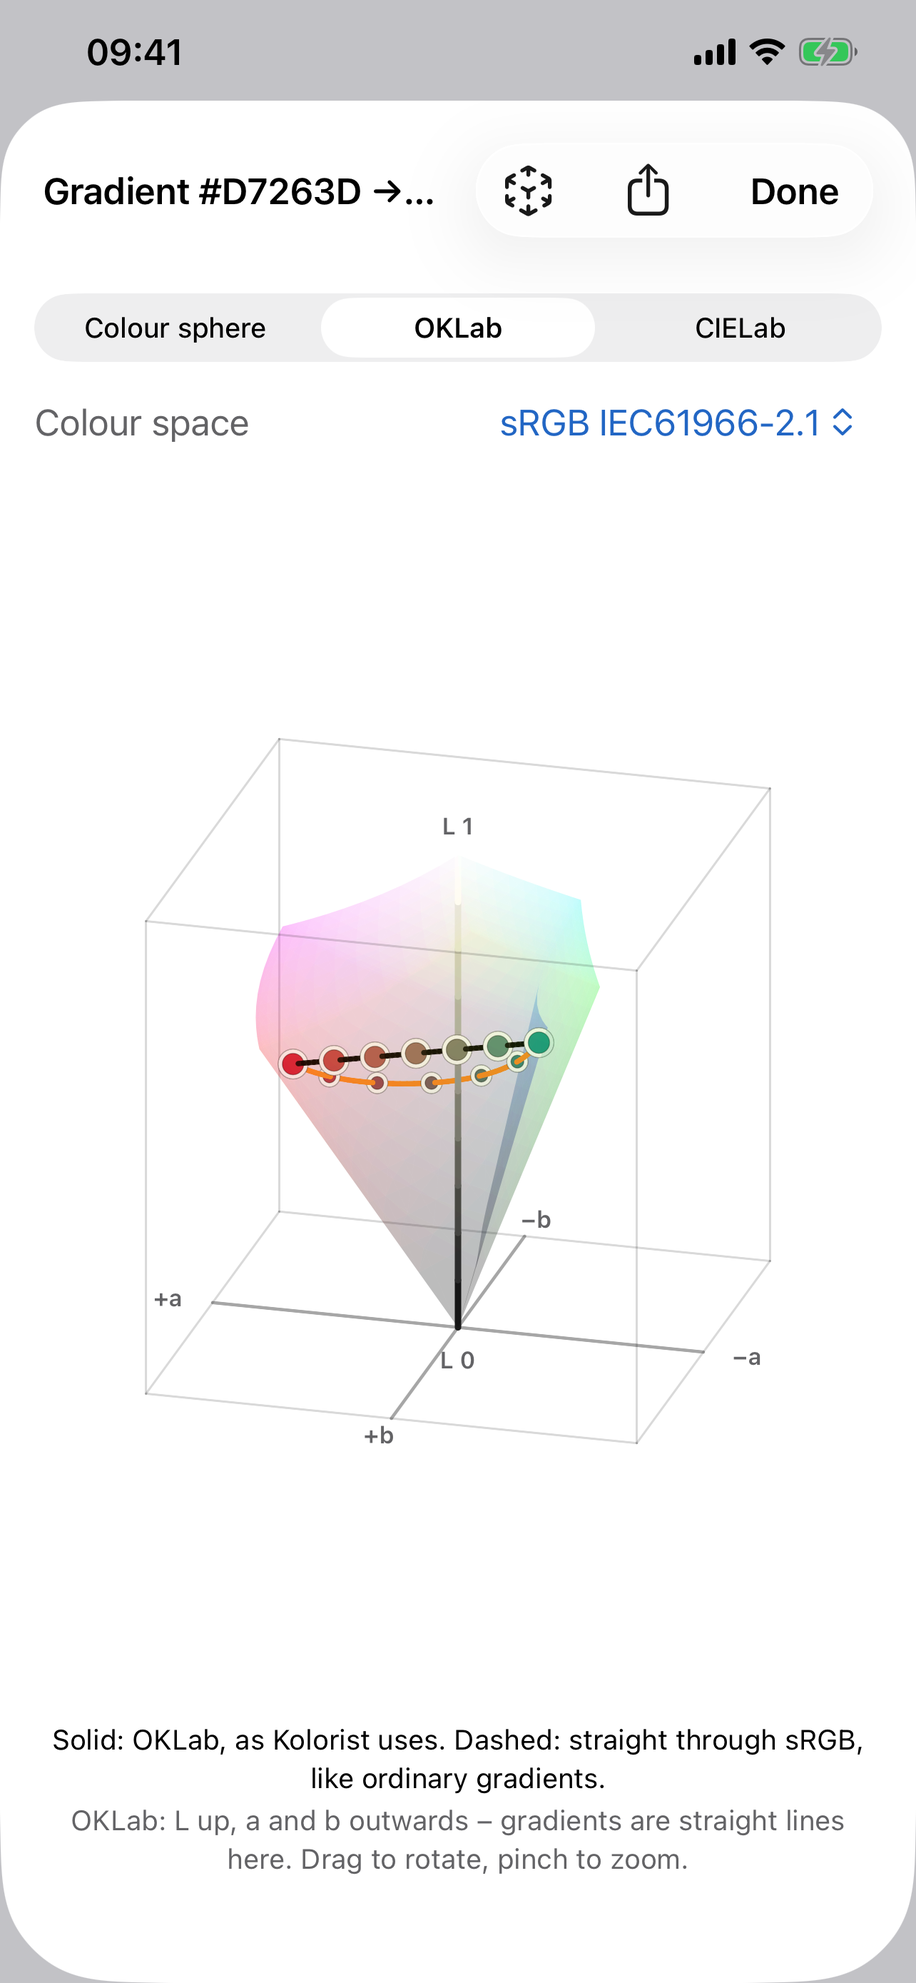
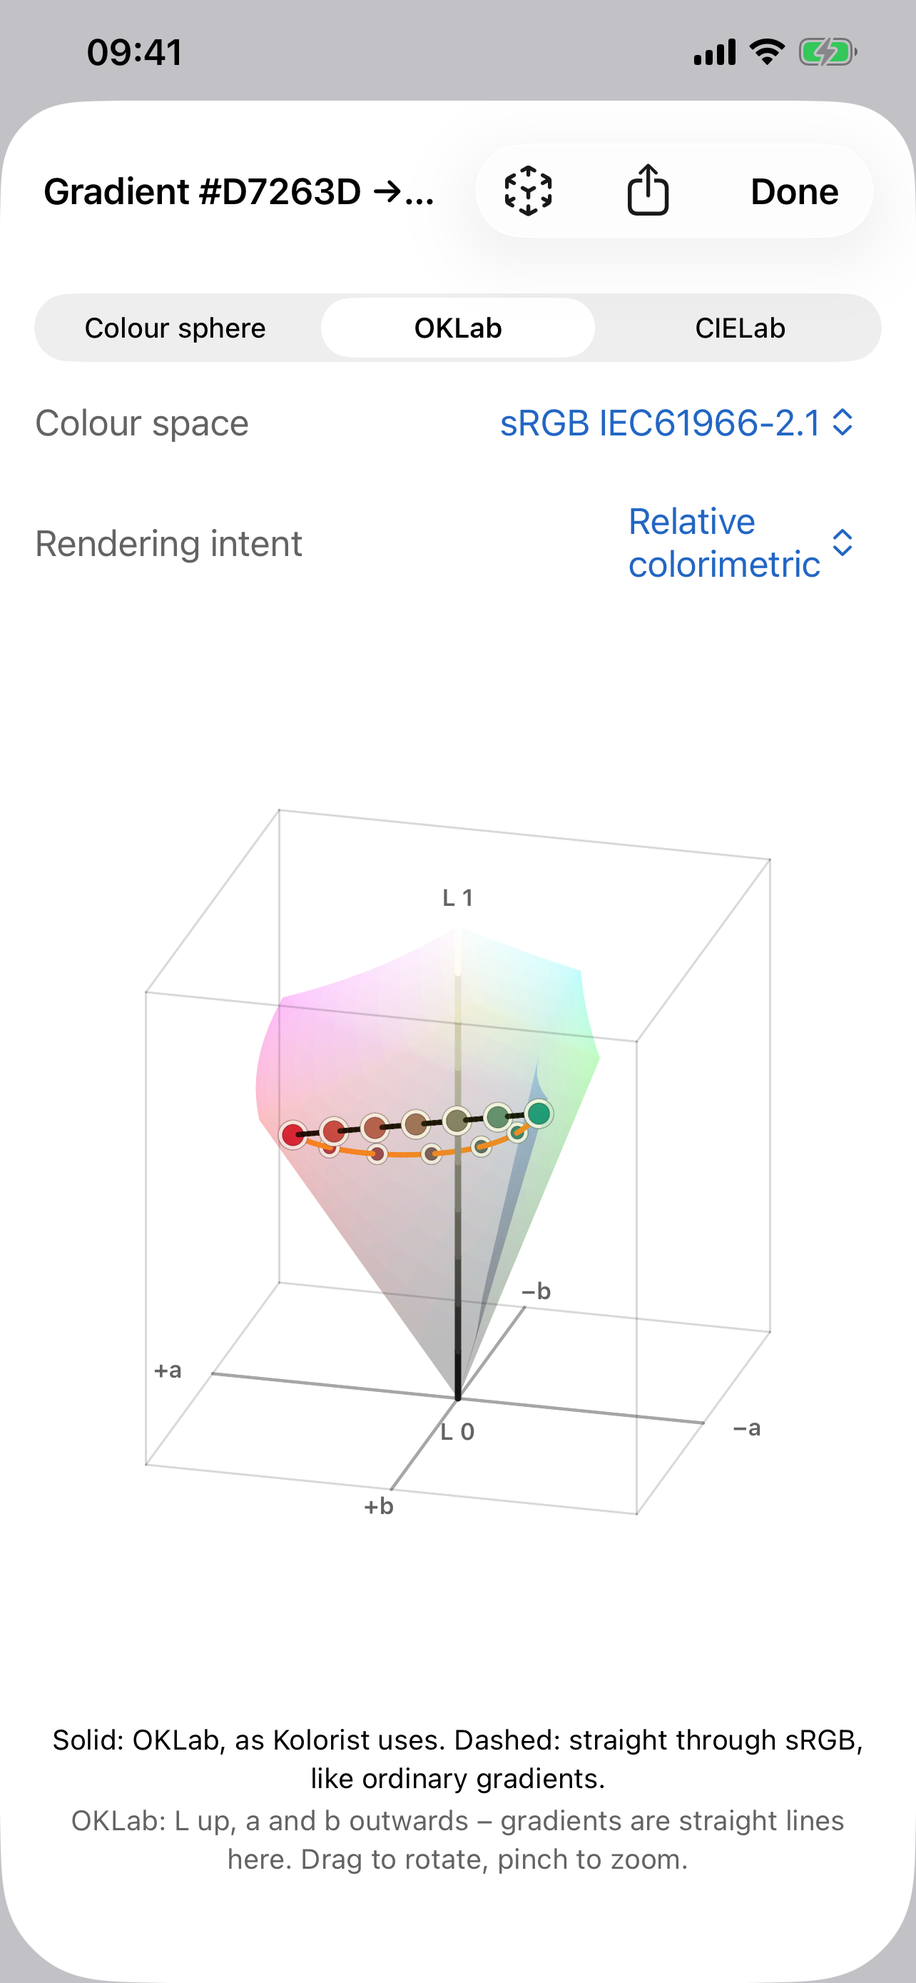
Web 1.4: gamutgrenser i gliderne og flaten (skjermbilder), gjengivelseshensikt og «Vis som» i 3D-delen, nye 3D-skjermbilder (?v=11), forvirringslinjer på metodesiden

diff --git a/web/1.4/en/features.html b/web/1.4/en/features.html
@@ -70,6 +70,20 @@
 
     <section class="funksjonsgruppe" id="colour-spaces" aria-labelledby="colour-spaces-tittel">
       <h2 id="colour-spaces-tittel">Colours and colour spaces</h2>
+      <ul class="skjermbilder" tabindex="0" aria-label="Screenshots – scroll sideways">
+        <li>
+          <figure class="skjermbilde">
+            <img src="../assets/en/skjermbilde-gamutgrense.png?v=11" alt="Studio with Generic CMYK under “Show as”: the lightness, chroma and hue sliders are striped where the colour falls outside CMYK" width="1284" height="2778" loading="lazy">
+            <figcaption>The limits on the sliders</figcaption>
+          </figure>
+        </li>
+        <li>
+          <figure class="skjermbilde">
+            <img src="../assets/en/skjermbilde-gamutgrense-flate.png?v=11" alt="Monochromatic harmony with the limit of Generic CMYK drawn in the lightness and saturation field" width="1284" height="2778" loading="lazy">
+            <figcaption>The limit in the field</figcaption>
+          </figure>
+        </li>
+      </ul>
       <div class="underpunkter">
         <div>
           <h3>Every colour space</h3>
@@ -79,6 +93,7 @@
             <li>Choose the source colour space for CMYK and RGB – Generic CMYK and sRGB by default, or any ICC profile</li>
             <li>Save colours in their colour model or profile – exports use the same format</li>
             <li>Warnings when a colour is out of gamut</li>
+            <li>See the limits of the colour space right on the sliders and in the lightness and saturation field <span class="nytt">New in 1.4</span></li>
             <li>Optionally limit colours to a chosen profile</li>
             <li>See colour spaces, harmonies, gradients and palettes in 3D – in CIELab, OKLab or a colour sphere – and as a 3D model in AR <span class="nytt">New in 1.4</span></li>
             <li>Clean CMYK values: grey components move to black (UCR/GCR), with as few inks as possible</li>
@@ -116,25 +131,25 @@
       <ul class="skjermbilder" tabindex="0" aria-label="Screenshots – scroll sideways">
               <li>
                 <figure class="skjermbilde">
-                  <img src="../assets/en/skjermbilde-3d-tonebane.png?v=10" alt="A tone path in a semi-transparent colour sphere: the tones and the path from light turquoise to blue, with the grey axis" width="1284" height="2778" loading="lazy">
+                  <img src="../assets/en/skjermbilde-3d-tonebane.png?v=11" alt="A tone path in a semi-transparent colour sphere: the tones and the path from light turquoise to blue, with the grey axis" width="1284" height="2778" loading="lazy">
                   <figcaption>The tone path in the colour sphere</figcaption>
                 </figure>
               </li>
               <li>
                 <figure class="skjermbilde">
-                  <img src="../assets/en/skjermbilde-3d-overgang.png?v=10" alt="A gradient from red to turquoise in OKLab: the straight OKLab path and the dashed path through sRGB, which gets darker in the middle" width="1284" height="2778" loading="lazy">
+                  <img src="../assets/en/skjermbilde-3d-overgang.png?v=11" alt="A gradient from red to turquoise in OKLab: the straight OKLab path and the dashed path through sRGB, which gets darker in the middle" width="1284" height="2778" loading="lazy">
                   <figcaption>The gradient: OKLab against sRGB</figcaption>
                 </figure>
               </li>
               <li>
                 <figure class="skjermbilde">
-                  <img src="../assets/en/skjermbilde-3d-gamut.png?v=10" alt="The colour space of Generic CMYK in CIELab, with sRGB as a transparent shell for comparison" width="1284" height="2778" loading="lazy">
+                  <img src="../assets/en/skjermbilde-3d-gamut.png?v=11" alt="The colour space of Generic CMYK in CIELab, with sRGB as a transparent shell for comparison" width="1284" height="2778" loading="lazy">
                   <figcaption>Colour spaces in CIELab</figcaption>
                 </figure>
               </li>
               <li>
                 <figure class="skjermbilde">
-                  <img src="../assets/en/skjermbilde-3d-filament.png?v=10" alt="More than 2,200 filament colours as a point cloud in CIELab, with the colour and the nearest filament marked" width="1284" height="2778" loading="lazy">
+                  <img src="../assets/en/skjermbilde-3d-filament.png?v=11" alt="More than 2,200 filament colours as a point cloud in CIELab, with the colour and the nearest filament marked" width="1284" height="2778" loading="lazy">
                   <figcaption>Filament colours in 3D</figcaption>
                 </figure>
               </li>
@@ -148,7 +163,8 @@
             <li>The gradient in OKLab next to the path straight through sRGB, which turns dark and muddy in the middle <span class="nytt">New in 1.4</span></li>
             <li>Colours outside a colour space get an arrow to where they end up, for example in the print profile <span class="nytt">New in 1.4</span></li>
             <li>Colour libraries as a point cloud – more than 2,200 filament colours – with your colour and the nearest tone <span class="nytt">New in 1.4</span></li>
-            <li>The colour spaces of ICC profiles in CIELab, with another space as glass for comparison <span class="nytt">New in 1.4</span></li>
+            <li>The colour spaces of ICC profiles in CIELab, with another space as glass for comparison – opened right from “Show as” <span class="nytt">New in 1.4</span></li>
+            <li>Choose the rendering intent for the colour space and for where the colours outside end up <span class="nytt">New in 1.4</span></li>
             <li>Share as a 3D model (USDZ): Quick Look on the Mac, AR on iPhone and iPad <span class="nytt">New in 1.4</span></li>
           </ul>
         </div>

diff --git a/web/1.4/funksjoner.html b/web/1.4/funksjoner.html
@@ -70,6 +70,20 @@
 
     <section class="funksjonsgruppe" id="fargerom" aria-labelledby="fargerom-tittel">
       <h2 id="fargerom-tittel">Farger og fargerom</h2>
+      <ul class="skjermbilder" tabindex="0" aria-label="Skjermbilder – rull sidelengs">
+        <li>
+          <figure class="skjermbilde">
+            <img src="assets/skjermbilde-gamutgrense.png?v=11" alt="Studio med Generisk CMYK under «Vis som»: gliderne for lyshet, kroma og kulør er stripet der fargen havner utenfor CMYK" width="1284" height="2778" loading="lazy">
+            <figcaption>Grensene i gliderne</figcaption>
+          </figure>
+        </li>
+        <li>
+          <figure class="skjermbilde">
+            <img src="assets/skjermbilde-gamutgrense-flate.png?v=11" alt="Monokromatisk harmoni med grensen for Generisk CMYK tegnet inn i flaten for lyshet og metning" width="1284" height="2778" loading="lazy">
+            <figcaption>Grensen i flaten</figcaption>
+          </figure>
+        </li>
+      </ul>
       <div class="underpunkter">
         <div>
           <h3>Alle fargerom</h3>
@@ -77,6 +91,7 @@
           <ul>
             <li>Display P3 side om side med sRGB, Adobe RGB, Rec. 2020, ProPhoto RGB, CMYK eller en hvilken som helst installert ICC-profil</li>
             <li>Varsel når fargen er utenfor fargeområdet</li>
+            <li>Se grensene for fargerommet rett i gliderne og i flaten for lyshet og metning <span class="nytt">Nytt i 1.4</span></li>
             <li>Begrens farger til en valgt profil om du vil</li>
             <li>Se fargerom, harmonier, overganger og paletter i 3D – i CIELab, OKLab eller en fargekule – og som 3D-modell i AR <span class="nytt">Nytt i 1.4</span></li>
             <li>Velg kildefargerom for CMYK og RGB – Generisk CMYK og sRGB som standard, eller en hvilken som helst ICC-profil</li>
@@ -116,25 +131,25 @@
       <ul class="skjermbilder" tabindex="0" aria-label="Skjermbilder – rull sidelengs">
               <li>
                 <figure class="skjermbilde">
-                  <img src="assets/skjermbilde-3d-tonebane.png?v=10" alt="En tonebane i en halvgjennomsiktig fargekule: tonene og banen fra lys turkis til blå, med den grå aksen" width="1284" height="2778" loading="lazy">
+                  <img src="assets/skjermbilde-3d-tonebane.png?v=11" alt="En tonebane i en halvgjennomsiktig fargekule: tonene og banen fra lys turkis til blå, med den grå aksen" width="1284" height="2778" loading="lazy">
                   <figcaption>Tonebanen i fargekula</figcaption>
                 </figure>
               </li>
               <li>
                 <figure class="skjermbilde">
-                  <img src="assets/skjermbilde-3d-overgang.png?v=10" alt="En overgang fra rødt til turkis i OKLab: den rette OKLab-veien og den stiplede veien gjennom sRGB, som blir mørkere på midten" width="1284" height="2778" loading="lazy">
+                  <img src="assets/skjermbilde-3d-overgang.png?v=11" alt="En overgang fra rødt til turkis i OKLab: den rette OKLab-veien og den stiplede veien gjennom sRGB, som blir mørkere på midten" width="1284" height="2778" loading="lazy">
                   <figcaption>Overgangen: OKLab mot sRGB</figcaption>
                 </figure>
               </li>
               <li>
                 <figure class="skjermbilde">
-                  <img src="assets/skjermbilde-3d-gamut.png?v=10" alt="Fargerommet til Generisk CMYK i CIELab, med sRGB som gjennomsiktig skall til sammenligning" width="1284" height="2778" loading="lazy">
+                  <img src="assets/skjermbilde-3d-gamut.png?v=11" alt="Fargerommet til Generisk CMYK i CIELab, med sRGB som gjennomsiktig skall til sammenligning" width="1284" height="2778" loading="lazy">
                   <figcaption>Fargerom i CIELab</figcaption>
                 </figure>
               </li>
               <li>
                 <figure class="skjermbilde">
-                  <img src="assets/skjermbilde-3d-filament.png?v=10" alt="Over 2 200 filamentfarger som punktsky i CIELab, med fargen og nærmeste filament markert" width="1284" height="2778" loading="lazy">
+                  <img src="assets/skjermbilde-3d-filament.png?v=11" alt="Over 2 200 filamentfarger som punktsky i CIELab, med fargen og nærmeste filament markert" width="1284" height="2778" loading="lazy">
                   <figcaption>Filamentfarger i 3D</figcaption>
                 </figure>
               </li>
@@ -148,7 +163,8 @@
             <li>Overgangen i OKLab ved siden av veien rett gjennom sRGB, som blir mørk og grumsete på midten <span class="nytt">Nytt i 1.4</span></li>
             <li>Farger utenfor et fargerom får en pil til der de havner, f.eks. i trykkprofilen <span class="nytt">Nytt i 1.4</span></li>
             <li>Fargebiblioteker som punktsky – over 2 200 filamentfarger – med fargen din og nærmeste tone <span class="nytt">Nytt i 1.4</span></li>
-            <li>Fargerommene til ICC-profiler i CIELab, med et annet rom som glass til sammenligning <span class="nytt">Nytt i 1.4</span></li>
+            <li>Fargerommene til ICC-profiler i CIELab, med et annet rom som glass til sammenligning – åpnes rett fra «Vis som» <span class="nytt">Nytt i 1.4</span></li>
+            <li>Velg gjengivelseshensikt for fargerommet og for hvor fargene utenfor havner <span class="nytt">Nytt i 1.4</span></li>
             <li>Del som 3D-modell (USDZ): Hurtigvisning på Mac, AR på iPhone og iPad <span class="nytt">Nytt i 1.4</span></li>
           </ul>
         </div>

diff --git a/web/1.4/en/methods.html b/web/1.4/en/methods.html
@@ -67,6 +67,10 @@
     <h2 id="fargesyn">Colour vision deficiency simulation</h2>
     <p>A physiologically based model of protan, deutan and tritan deficiencies, with matrices in linear sRGB and severity as a blend with normal vision. Achromatopsia is shown as luminance alone. Used in the colour vision assessment, in the colour field of the contrast check and in the camera filter. The simulation is an approximation; experience varies between people.</p>
     <p class="dempet">Source: <a href="https://doi.org/10.1109/TVCG.2009.113">G. M. Machado, M. M. Oliveira, L. A. F. Fernandes: IEEE TVCG 15(6), 2009</a></p>
+
+    <h2 id="confusion-lines">Confusion lines</h2>
+    <p>In the CIE 1931 chromaticity diagram (xy), colours a dichromat cannot tell apart (at equal lightness) lie on straight lines through one point – the copunctal point for the deficiency. Kolorist draws the line through each colour in the palette for protanopia, deuteranopia and tritanopia, and joins the pairs the analysis finds hard. Copunctal points (x, y): protan 0.7465 / 0.2535, deutan 1.4 / −0.4, tritan 0.1748 / 0.0044.</p>
+    <p class="dempet">Source: G. Wyszecki and W. S. Stiles: Color Science, 2nd ed., Wiley 1982</p>
     
     <h2 id="icc">ICC profiles and colour management</h2>
     <p>Conversion between colour spaces via ICC profiles, with the chosen rendering intent. Performed by Apple’s colour management (ColorSync). Profiles are not bundled with the app; Kolorist uses the system’s profiles and profiles you import.</p>

diff --git a/web/1.4/methods.html b/web/1.4/methods.html
@@ -67,6 +67,10 @@
     <h2 id="fargesyn">Simulering av fargesynsavvik</h2>
     <p>Fysiologisk basert modell for protan-, deutan- og tritanavvik, med matriser i lineær sRGB og alvorlighetsgrad som blanding med normalt syn. Akromatopsi vises som luminans alene. Brukes i fargesynsvurderingen, i fargeflaten i kontrastsjekken og i kamerafilteret. Simuleringen er en tilnærming; opplevelsen varierer mellom personer.</p>
     <p class="dempet">Kilde: <a href="https://doi.org/10.1109/TVCG.2009.113">G. M. Machado, M. M. Oliveira, L. A. F. Fernandes: IEEE TVCG 15(6), 2009</a></p>
+
+    <h2 id="forvirringslinjer">Forvirringslinjer</h2>
+    <p>I CIE 1931-kromatisitetsdiagrammet (xy) ligger farger som en dikromat ikke kan skille (med lik lyshet), på rette linjer gjennom ett punkt – kopunktet for avviket. Kolorist tegner linjen gjennom hver farge i paletten for protanopi, deuteranopi og tritanopi, og streker sammen parene analysen finner vanskelige. Kopunktene (x, y): protan 0,7465 / 0,2535, deutan 1,4 / −0,4, tritan 0,1748 / 0,0044.</p>
+    <p class="dempet">Kilde: G. Wyszecki og W. S. Stiles: Color Science, 2. utg., Wiley 1982</p>
     
     <h2 id="icc">ICC-profiler og fargestyring</h2>
     <p>Konvertering mellom fargerom via ICC-profiler, med valgt gjengivelseshensikt. Gjøres av Apples fargestyring (ColorSync). Profiler følger ikke med appen; Kolorist bruker systemets profiler og profiler du importerer.</p>

diff --git a/web/verktøy/webkilde/en/index.html b/web/verktøy/webkilde/en/index.html
@@ -95,6 +95,7 @@
               <li>Choose the source colour space for CMYK and RGB – Generic CMYK and sRGB by default, or any ICC profile</li>
               <li>Save colours in their colour model or profile – exports use the same format</li>
               <li>Warnings when a colour is out of gamut</li>
+              <li>See the limits of the colour space right on the sliders and in the lightness and saturation field <span class="nytt">New in 1.4</span></li>
               <li>Optionally limit colours to a chosen profile</li>
               <li>See colour spaces, harmonies, gradients and palettes in 3D – in CIELab, OKLab or a colour sphere – and as a 3D model in AR <span class="nytt">New in 1.4</span></li>
               <li>Clean CMYK values: grey components move to black (UCR/GCR), with as few inks as possible</li>

diff --git a/web/verktøy/webkilde/index.html b/web/verktøy/webkilde/index.html
@@ -93,6 +93,7 @@
             <ul>
               <li>Display P3 side om side med sRGB, Adobe RGB, Rec. 2020, ProPhoto RGB, CMYK eller en hvilken som helst installert ICC-profil</li>
               <li>Varsel når fargen er utenfor fargeområdet</li>
+              <li>Se grensene for fargerommet rett i gliderne og i flaten for lyshet og metning <span class="nytt">Nytt i 1.4</span></li>
               <li>Begrens farger til en valgt profil om du vil</li>
               <li>Se fargerom, harmonier, overganger og paletter i 3D – i CIELab, OKLab eller en fargekule – og som 3D-modell i AR <span class="nytt">Nytt i 1.4</span></li>
               <li>Velg kildefargerom for CMYK og RGB – Generisk CMYK og sRGB som standard, eller en hvilken som helst ICC-profil</li>

diff --git a/web/verktøy/lag_sider.py b/web/verktøy/lag_sider.py
@@ -201,6 +201,10 @@ NYE_BILDER.update({
     ('en', 'apca-kontrast'): ('Contrast check by APCA: blue text on white, Lc 67, with the levels from body text to icons and “Fix”', 'Reading contrast by APCA'),
     ('nb', 'apca-tekst'): ('Harmoni i Studio: fem farger med verdiene i hvit eller sort tekst etter APCA, også på mellomtonene', 'Tekst på fargefelt etter APCA'),
     ('en', 'apca-tekst'): ('Harmony in Studio: five colours with their values in white or black text by APCA, also on the mid tones', 'Text on colour fields by APCA'),
+    ('nb', 'gamutgrense'): ('Studio med Generisk CMYK under «Vis som»: gliderne for lyshet, kroma og kulør er stripet der fargen havner utenfor CMYK', 'Grensene i gliderne'),
+    ('en', 'gamutgrense'): ('Studio with Generic CMYK under “Show as”: the lightness, chroma and hue sliders are striped where the colour falls outside CMYK', 'The limits on the sliders'),
+    ('nb', 'gamutgrense-flate'): ('Monokromatisk harmoni med grensen for Generisk CMYK tegnet inn i flaten for lyshet og metning', 'Grensen i flaten'),
+    ('en', 'gamutgrense-flate'): ('Monochromatic harmony with the limit of Generic CMYK drawn in the lightness and saturation field', 'The limit in the field'),
     ('nb', 'forvirringslinjer'): ('Kromatisitetsdiagram med forvirringslinjene for deuteranopi: palettens farger, og de vanskelige parene streket sammen i rødt', 'Forvirringslinjer'),
     ('en', 'forvirringslinjer'): ('Chromaticity diagram with the confusion lines for deuteranopia: the palette’s colours, with the hard pairs joined in red', 'Confusion lines'),
     ('nb', '3d-tonebane'): ('En tonebane i en halvgjennomsiktig fargekule: tonene og banen fra lys turkis til blå, med den grå aksen', 'Tonebanen i fargekula'),
@@ -762,7 +766,8 @@ def funksjoner(lang):
 
     if nb:
         grupper = [
-            ('fargerom', 'Farger og fargerom', 'Fargerom', None,
+            ('fargerom', 'Farger og fargerom', 'Fargerom',
+             skjermbilder(s, ['gamutgrense', 'gamutgrense-flate']).format('Skjermbilder – rull sidelengs'),
              [('Alle fargerom', k['Alle fargerom']), ('ICC-profiler og fargebiblioteker', k['ICC-profiler og fargebiblioteker']),
               ('Filamentfarger for 3D-print', ul([f'<li>Over 2 200 filamentfarger fra 150 produsenter, i ett bibliotek per materiale: PLA, PETG, ABS og ASA, TPU og TPE og andre {N12}</li>',
                                                   '<li>De fleste målt med kolorimeter på utskrevne prøver; resten anslått fra foto og merket slik</li>',
@@ -777,7 +782,8 @@ def funksjoner(lang):
                            f'<li>Overgangen i OKLab ved siden av veien rett gjennom sRGB, som blir mørk og grumsete på midten {N}</li>',
                            f'<li>Farger utenfor et fargerom får en pil til der de havner, f.eks. i trykkprofilen {N}</li>',
                            f'<li>Fargebiblioteker som punktsky – over 2 200 filamentfarger – med fargen din og nærmeste tone {N}</li>',
-                           f'<li>Fargerommene til ICC-profiler i CIELab, med et annet rom som glass til sammenligning {N}</li>',
+                           f'<li>Fargerommene til ICC-profiler i CIELab, med et annet rom som glass til sammenligning – åpnes rett fra «Vis som» {N}</li>',
+                           f'<li>Velg gjengivelseshensikt for fargerommet og for hvor fargene utenfor havner {N}</li>',
                            f'<li>Del som 3D-modell (USDZ): Hurtigvisning på Mac, AR på iPhone og iPad {N}</li>']))]),
             ('toner', 'Toner, harmonier og overganger', 'Toner og overganger', None,
              [('Toner og harmonier', k['Toner og harmonier']), ('Overganger', k['Overganger'])]),
@@ -812,7 +818,8 @@ def funksjoner(lang):
         innholdsliste = 'Innhold på siden'
     else:
         grupper = [
-            ('colour-spaces', 'Colours and colour spaces', 'Colour spaces', None,
+            ('colour-spaces', 'Colours and colour spaces', 'Colour spaces',
+             skjermbilder(s, ['gamutgrense', 'gamutgrense-flate']).format('Screenshots – scroll sideways'),
              [('Every colour space', k['Every colour space']), ('ICC profiles and colour libraries', k['ICC profiles and colour libraries']),
               ('Filament colours for 3D printing', ul([f'<li>More than 2,200 filament colours from 150 manufacturers, in one library per material: PLA, PETG, ABS and ASA, TPU and TPE and others {N12}</li>',
                                                        '<li>Most measured with a colorimeter on printed samples; the rest estimated from photos and marked as such</li>',
@@ -827,7 +834,8 @@ def funksjoner(lang):
                             f'<li>The gradient in OKLab next to the path straight through sRGB, which turns dark and muddy in the middle {N}</li>',
                             f'<li>Colours outside a colour space get an arrow to where they end up, for example in the print profile {N}</li>',
                             f'<li>Colour libraries as a point cloud – more than 2,200 filament colours – with your colour and the nearest tone {N}</li>',
-                            f'<li>The colour spaces of ICC profiles in CIELab, with another space as glass for comparison {N}</li>',
+                            f'<li>The colour spaces of ICC profiles in CIELab, with another space as glass for comparison – opened right from “Show as” {N}</li>',
+                            f'<li>Choose the rendering intent for the colour space and for where the colours outside end up {N}</li>',
                             f'<li>Share as a 3D model (USDZ): Quick Look on the Mac, AR on iPhone and iPad {N}</li>']))]),
             ('tones', 'Tones, harmonies and gradients', 'Tones and gradients', None,
              [('Tones and harmonies', k['Tones and harmonies']), ('Gradients', k['Gradients'])]),
@@ -1226,6 +1234,8 @@ def lenke_på(url, lang):
 def skriv(sti, tekst):
     # Nye skjermbilder: ny versjon i adressen, så nettleser og Varnish henter dem på nytt.
     tekst = re.sub(r'\.png\?v=\d+', '.png?v=10', tekst)
+    # Bilder som er tatt på nytt etter at de først ble lagt ut (3D-arket med gjengivelseshensikt), og gamutgrensene.
+    tekst = re.sub(r'(skjermbilde-(?:3d-[a-z]+|gamutgrense[a-z-]*)\.png)\?v=10', r'\1?v=11', tekst)
     lang = 'en' if sti.startswith('en/') else 'nb'
     tekst = re.sub(r'https://kolorist\.no/l#z[A-Za-z0-9_-]+', lambda m: lenke_på(m.group(0), lang), tekst)
     open(f'{W}/{sti}', 'w').write(tekst)
